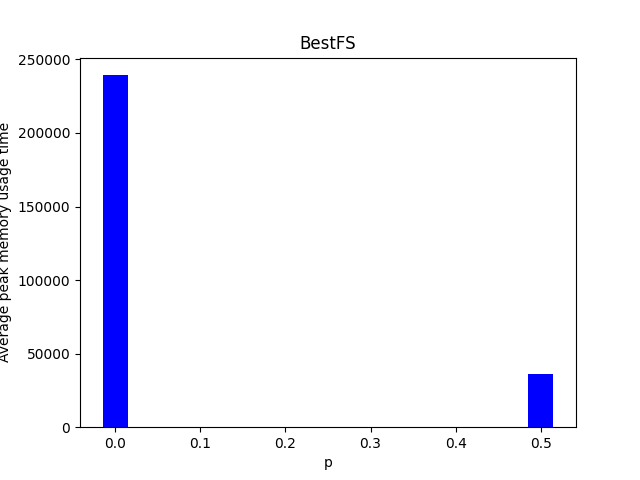
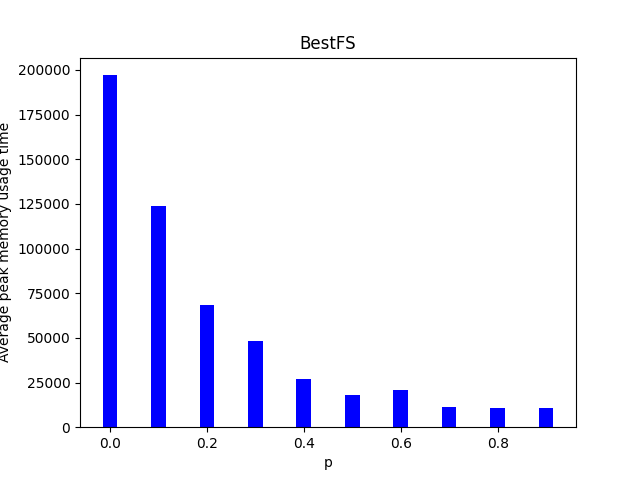
update

diff --git a/test.py b/test.py
@@ -9,10 +9,10 @@ import tracemalloc
 
 PUZZLE_SIZE = 9
 SUB_GRID = int(math.sqrt(PUZZLE_SIZE))
-NUM_OF_CATEGORIES = 20
+NUM_OF_CATEGORIES = 10
 STEP = 1/NUM_OF_CATEGORIES
-NUM_OF_INSTANCES = 10
-NUM_OF_REPEAT = 10
+NUM_OF_INSTANCES = 5
+NUM_OF_REPEAT = 5
 
 def is_valid(board, row, col, num):
     # Check if the number is already present in the current row
@@ -291,11 +291,12 @@ def solve_puzzle(is_read_from_file=False, type_algorithm="DFS"):
                         share_avg_peak_memory_usage_dfs[i] += peak_memory_usage
                     #BestFS
                     start_time = time.time()
-                    peak_memory_usage = resource.getrusage(resource.RUSAGE_SELF).ru_maxrss
-                    
+                    # peak_memory_usage = resource.getrusage(resource.RUSAGE_SELF).ru_maxrss
+                    tracemalloc.start()
                     solved_board = best_first_search((puzzle))
-                        
-                    peak_memory_usage = resource.getrusage(resource.RUSAGE_SELF).ru_maxrss - peak_memory_usage
+                    peak_memory_usage = tracemalloc.get_traced_memory()[1]
+                    tracemalloc.stop()
+                    # peak_memory_usage = resource.getrusage(resource.RUSAGE_SELF).ru_maxrss - peak_memory_usage
                     end_time = time.time()
                     execution_time = end_time - start_time
 
